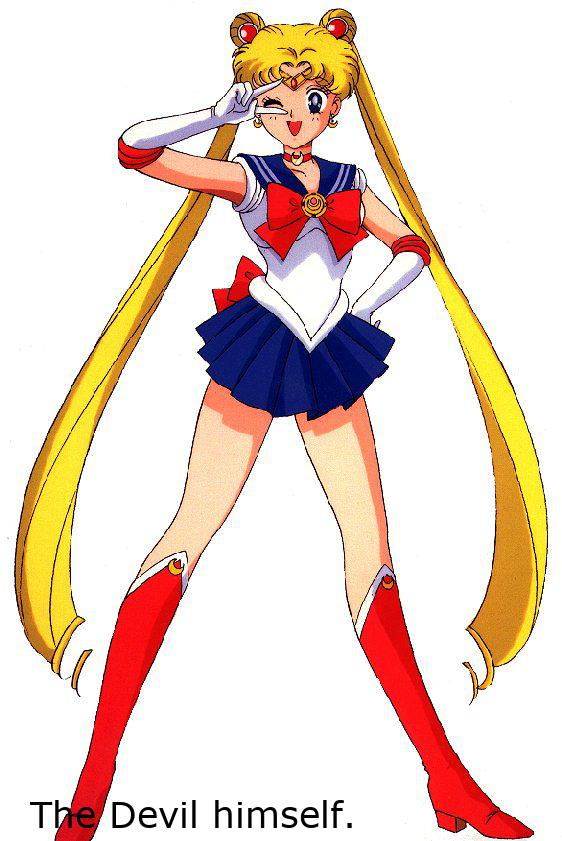
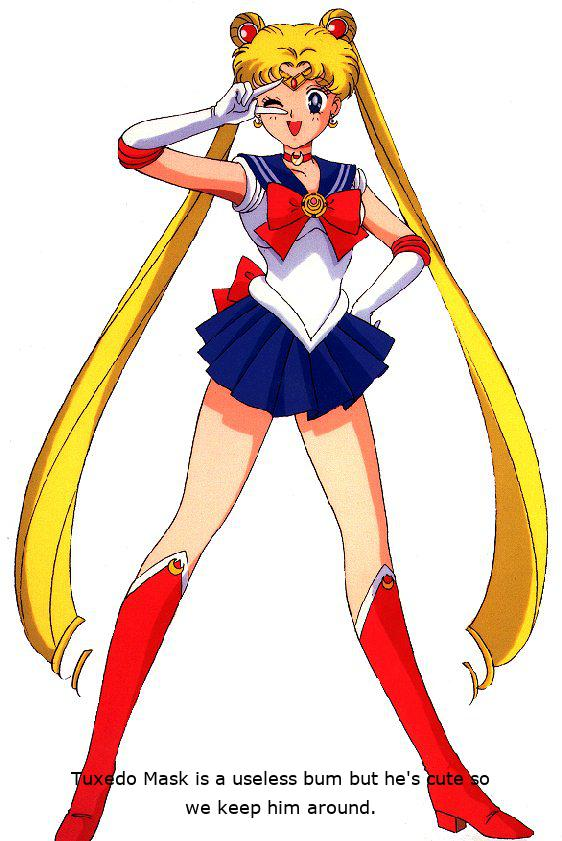
Text wraps and centers on an image

Changed region(s): [[0.0605, 0.8966, 0.726, 0.9893], [0.7562, 0.8966, 0.8772, 0.9584]]

diff --git a/draw_practice.py b/draw_practice.py
@@ -19,29 +19,29 @@ lolpic = Image.open('sailormoon.jpg')
 height = lolpic.size[1]
 width = lolpic.size[0]
 
-# number checks
-# print(lolpic.size)
-# print("height: " + str(height))
-# print("width: " + str(width))
-
 draw = ImageDraw.Draw(lolpic)
-font = ImageFont.truetype('Verdana.ttf', size=36)
+font = ImageFont.truetype('Verdana.ttf', size=18)
  
 # starting position of the message
 # x is starting position from the left
-# y is starting position from the top
+# y is starting position from the bottom
 # x = 30
-y = height-50
+# y = height-50
 # color = 'rgb(255, 255, 255)' # white color
 color = 'rgb(0, 0, 0)' # black color
+ 
+# answer_size = draw.textsize(answer)[0]
 
 # breaking up longer answers into multiple lines
-text_block = textwrap.wrap(answer, width=30)
-
-answer_size = draw.textsize(answer)[0]
+text_block = textwrap.wrap(answer, width=45)
 
 # draw the message on the background
-draw.text(((width - answer_size)/2, y), answer, fill=color, font=font)
+current_height = height-75
+pad = 10
+for line in text_block:
+  w, h = draw.textsize(line, font=font)
+  draw.text(((width - w)/2, current_height), line, fill=color, font=font)
+  current_height += (h+pad)
  
 # save the edited image
 lolpic.save('newboop.jpg')
